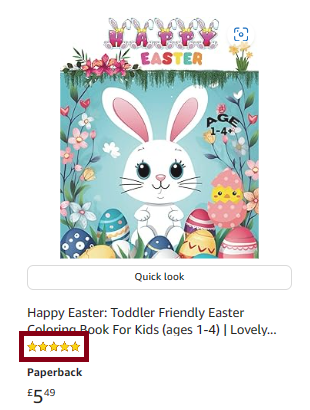
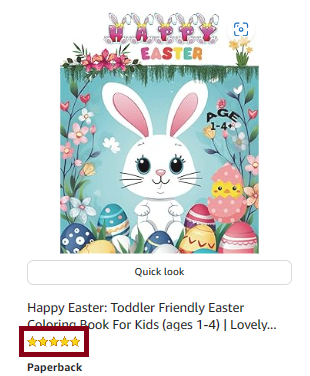
change book image

Changed region(s): [[0.0581, 0.0293, 0.9, 0.9947], [0.929, 0.6729, 0.9581, 0.7314]]

diff --git a/index.html b/index.html
@@ -283,7 +283,7 @@
                   At Angel Publishers, we believe in the magic of coloring and the joy of exploring vibrant worlds through our books. Our mission is to make your kids' minds more colorful, one page at
                   a time!
                 </span>
-                <span style="cursor: pointer; color: blue; font-weight: 400" class="read-more" onclick="toggleText()">Read More ...</span>
+                <span style="cursor: pointer; color: purple; font-weight: 400" class="read-more" onclick="toggleText()">Read More ...</span>
               </h3>
 
               <div class="btn-group d-flex flex-wrap mt-20">
@@ -504,7 +504,7 @@
                   <a href="img/thumb/alphabet_L.png" class="gallery pop-up-btn"><span class="lnr lnr-plus-circle"></span></a>
                 </div>
               </div>
-              <div class="book-page" style="background: url(img/thumb/floral_1.png); background-size: cover; background-position: center; border: 1px solid purple">
+              <div class="book-page" style="background: url(img/thumb/floral.png); background-size: cover; background-position: center; border: 1px solid purple">
                 <div class="total-overlay">
                   <div class="overlay-content">
                     <h4 class="text-white">Page 1-2</h4>
